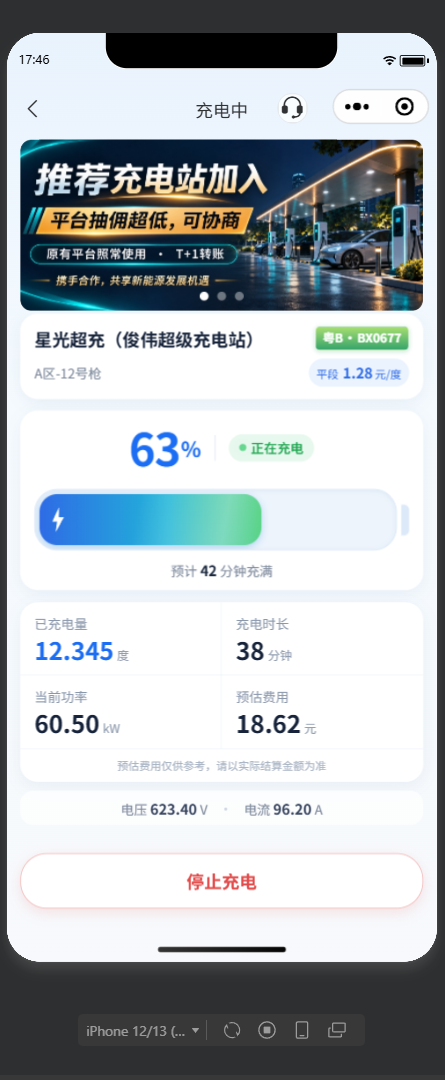
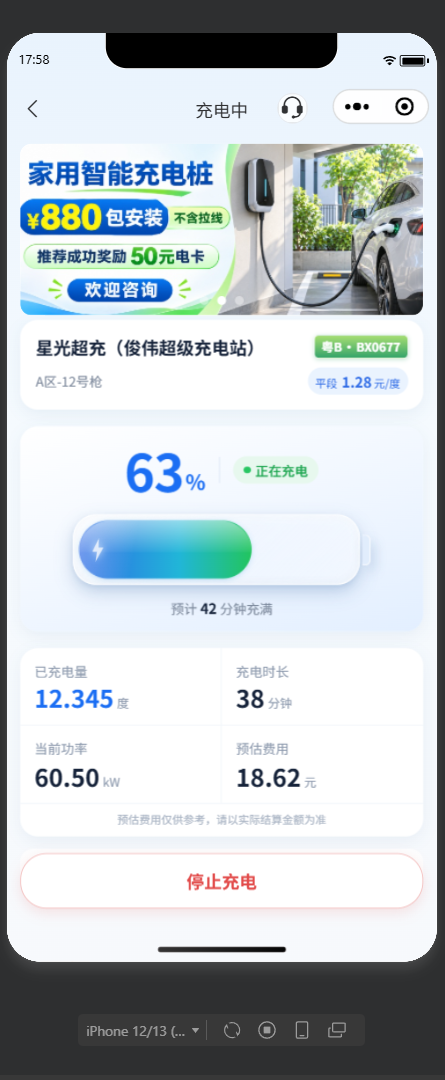
style(charging): 电池加毛玻璃与外阴影、闪电呼吸、百分号底部对齐、宽度收 20%

Changed region(s): [[0.0292, 0.1222, 0.964, 0.3667], [0.0584, 0.3972, 0.964, 0.7639], [0.0876, 0.0306, 0.1169, 0.0611]]

diff --git a/pages/charge/charging.vue b/pages/charge/charging.vue
@@ -31,7 +31,7 @@
 
     <!-- 广告位：与首页同规格（300rpx 高），随页面滚动 -->
     <ad-banner
-        margin-top="12rpx"
+        margin-top="20rpx"
         margin-bottom="4rpx"
         session-from="charging_page"
     />
@@ -73,8 +73,10 @@
     <!-- 电量：电池条随 SOC 增长 -->
     <view class="soc-block">
       <view class="soc-head">
-        <text class="soc-num">{{ displayPercent }}</text>
-        <text class="soc-unit">%</text>
+        <view class="soc-pct">
+          <text class="soc-num">{{ displayPercent }}</text>
+          <text class="soc-unit">%</text>
+        </view>
         <view class="soc-divider"></view>
         <view class="soc-tag">
           <view class="dot-live"></view>
@@ -86,7 +88,9 @@
       <view class="battery-row">
         <view class="battery-body">
           <view class="battery-fill" :style="{ width: batteryFillWidth }">
-            <view class="battery-bolt"></view>
+            <view class="battery-bolt-wrap">
+              <view class="battery-bolt"></view>
+            </view>
           </view>
         </view>
         <view class="battery-cap"></view>
@@ -854,8 +858,8 @@ export default {
 
 /* ===== 站点信息卡 ===== */
 .station-card {
-  margin-top: 0;
-  padding: 22rpx 26rpx;
+  margin-top: 8rpx;
+  padding: 26rpx 28rpx;
   border-radius: 32rpx;
   background-color: #FFFFFF;
   box-shadow: 0 8rpx 28rpx rgba(23, 78, 145, 0.07);
@@ -951,10 +955,10 @@ export default {
 
 /* ===== 电量：电池条 ===== */
 .soc-block {
-  margin-top: 22rpx;
-  padding: 24rpx 26rpx 18rpx;
+  margin-top: 30rpx;
+  padding: 30rpx 28rpx 24rpx;
   border-radius: 32rpx;
-  background-color: #FFFFFF;
+  background: linear-gradient(160deg, #FFFFFF 0%, #E3EFFF 100%);
   box-shadow: 0 8rpx 28rpx rgba(23, 78, 145, 0.07);
   display: flex;
   flex-direction: column;
@@ -970,8 +974,15 @@ export default {
   justify-content: center;
 }
 
+.soc-pct {
+  display: flex;
+  flex-direction: row;
+  /* 百分号与数字底部对齐 */
+  align-items: flex-end;
+}
+
 .soc-num {
-  font-size: 80rpx;
+  font-size: 92rpx;
   font-weight: bold;
   color: #1B6EF3;
   line-height: 1.05;
@@ -979,10 +990,13 @@ export default {
 }
 
 .soc-unit {
-  margin-left: 2rpx;
+  margin-left: 4rpx;
+  /* 数字 line-height 留白补偿，让 % 视觉上贴住数字底部 */
+  margin-bottom: 10rpx;
   font-size: 38rpx;
   font-weight: 600;
   color: #1B6EF3;
+  line-height: 1;
 }
 
 .soc-divider {
@@ -1011,6 +1025,9 @@ export default {
 /* 电池：壳 + 能量填充 + 正极 */
 .battery-row {
   width: 100%;
+  /* 左右各收 10%，电池整体宽度约为卡片的 80% */
+  padding: 0 10%;
+  box-sizing: border-box;
   margin-top: 32rpx;
   display: flex;
   flex-direction: row;
@@ -1020,22 +1037,29 @@ export default {
 .battery-body {
   position: relative;
   flex: 1;
-  height: 108rpx;
-  padding: 9rpx;
+  height: 124rpx;
+  padding: 10rpx;
   box-sizing: border-box;
   border-radius: 42rpx;
-  background-color: #EDF4FC;
-  border: 2rpx solid #DCE9F8;
-  box-shadow: inset 0 2rpx 10rpx rgba(23, 78, 145, 0.07);
+  /* 毛玻璃：半透明白 + 背景模糊 + 高光内阴影 */
+  background-color: rgba(240, 246, 255, 0.46);
+  background-image: linear-gradient(135deg, rgba(255, 255, 255, 0.72) 0%, rgba(255, 255, 255, 0) 42%, rgba(255, 255, 255, 0.28) 100%);
+  backdrop-filter: blur(14px);
+  -webkit-backdrop-filter: blur(14px);
+  border: 2rpx solid rgba(255, 255, 255, 0.96);
+  box-shadow: inset 0 3rpx 16rpx rgba(255, 255, 255, 0.95),
+              inset 0 -3rpx 14rpx rgba(23, 78, 145, 0.10),
+              0 14rpx 32rpx rgba(23, 78, 145, 0.22),
+              0 4rpx 10rpx rgba(23, 78, 145, 0.10);
   overflow: hidden;
 }
 
 .battery-fill {
   position: relative;
   height: 100%;
-  border-radius: 32rpx;
+  border-radius: 999rpx;
   background: linear-gradient(90deg, #2E6BE6 0%, #21B6D8 58%, #22C55E 100%);
-  box-shadow: 0 4rpx 14rpx rgba(33, 140, 216, 0.3);
+  box-shadow: 0 2rpx 10rpx rgba(33, 140, 216, 0.22);
   display: flex;
   flex-direction: row;
   align-items: center;
@@ -1044,6 +1068,18 @@ export default {
   overflow: hidden;
   /* 电量增长：宽度平滑过渡 */
   transition: width 140ms linear;
+}
+
+/* 磨砂高光：上半段乳白渐隐，做出玻璃质感 */
+.battery-fill::before {
+  content: '';
+  position: absolute;
+  top: 0;
+  left: 0;
+  right: 0;
+  height: 54%;
+  background: linear-gradient(180deg, rgba(255, 255, 255, 0.5) 0%, rgba(255, 255, 255, 0.04) 100%);
+  border-radius: 999rpx 999rpx 0 0;
 }
 
 /* 能量流动光泽 */
@@ -1063,12 +1099,29 @@ export default {
 .battery-cap {
   width: 14rpx;
   height: 54rpx;
-  margin-left: 8rpx;
+  margin-left: 6rpx;
+  box-sizing: border-box;
   border-radius: 0 10rpx 10rpx 0;
-  background-color: #DCE9F8;
+  background-color: rgba(226, 237, 252, 0.78);
+  backdrop-filter: blur(14px);
+  -webkit-backdrop-filter: blur(14px);
+  border: 2rpx solid rgba(255, 255, 255, 0.92);
+  border-left: none;
+  box-shadow: 8rpx 12rpx 22rpx rgba(23, 78, 145, 0.18);
 }
 
 /* 闪电图标（CSS 绘制，避免小程序不支持内联 SVG） */
+/* 闪电外层：负责呼吸与发光 */
+.battery-bolt-wrap {
+  display: flex;
+  flex-direction: row;
+  align-items: center;
+  justify-content: center;
+  filter: drop-shadow(0 0 8rpx rgba(255, 255, 255, 0.95));
+  animation: boltBreathe 1.9s ease-in-out infinite;
+}
+
+/* 闪电本体：只负责形状（clip-path 与 transform 分开，避免部分内核下动画失效） */
 .battery-bolt {
   width: 26rpx;
   height: 46rpx;
@@ -1076,12 +1129,24 @@ export default {
   clip-path: polygon(58% 0%, 10% 58%, 44% 58%, 34% 100%, 92% 40%, 56% 40%);
 }
 
+/* 闪电呼吸 */
+@keyframes boltBreathe {
+  0%, 100% {
+    opacity: 1;
+    transform: scale(1);
+  }
+  50% {
+    opacity: 0.72;
+    transform: scale(0.9);
+  }
+}
+
 /* 剩余时间提示 */
 .gauge-remain {
   display: flex;
   flex-direction: row;
   align-items: center;
-  margin-top: 16rpx;
+  margin-top: 22rpx;
 }
 
 .remain-text {
@@ -1117,7 +1182,7 @@ export default {
 
 /* ===== 核心数据四宫格 ===== */
 .core-card {
-  margin-top: 22rpx;
+  margin-top: 30rpx;
   display: flex;
   flex-direction: row;
   flex-wrap: wrap;
@@ -1131,7 +1196,7 @@ export default {
 .core-cell {
   width: 50%;
   box-sizing: border-box;
-  padding: 20rpx 26rpx;
+  padding: 24rpx 26rpx;
   display: flex;
   flex-direction: column;
 }
@@ -1181,12 +1246,12 @@ export default {
 
 /* ===== 次要参数：电压 / 电流 ===== */
 .minor-row {
-  margin-top: 16rpx;
+  margin-top: 22rpx;
   display: flex;
   flex-direction: row;
   align-items: center;
   justify-content: center;
-  padding: 12rpx 0;
+  padding: 16rpx 0;
   border-radius: 24rpx;
   background-color: rgba(255, 255, 255, 0.72);
   animation: cardUp 620ms cubic-bezier(0.22, 0.61, 0.36, 1) 180ms both;

diff --git a/docs/prototype-charging.html b/docs/prototype-charging.html
@@ -74,22 +74,28 @@
 
   /* ===== 电量：电池条（填充随 SOC 增长） ===== */
   .soc-block {
-    margin-top: 12px; background: #fff; border-radius: 18px; padding: 15px 14px 12px;
+    margin-top: 12px; background: linear-gradient(160deg, #FFFFFF 0%, #E3EFFF 100%); border-radius: 18px; padding: 15px 14px 12px;
     box-shadow: 0 2px 14px rgba(27,95,208,.07);
     display: flex; flex-direction: column; align-items: center;
     animation: fadeUp .5s ease .12s both;
   }
   .soc-head { width: 100%; display: flex; align-items: center; justify-content: center; }
+  .soc-pct { display: flex; align-items: flex-end; }
   .soc-num { font-size: 46px; font-weight: 800; color: #1B6EF3; line-height: 1.05; letter-spacing: -1px; font-variant-numeric: tabular-nums; }
-  .soc-unit { font-size: 19px; font-weight: 700; color: #1B6EF3; margin-left: 1px; }
+  .soc-unit { font-size: 19px; font-weight: 700; color: #1B6EF3; margin-left: 2px; margin-bottom: 5px; line-height: 1; }
   .soc-divider { width: 1px; height: 23px; background: #DCE7F5; margin: 0 12px; }
   .soc-tag { display: flex; align-items: center; gap: 4px; padding: 4px 10px; border-radius: 999px; background: #E7F8EE; font-size: 12px; font-weight: 600; color: #16A34A; }
 
-  .battery-row { width: 100%; margin-top: 16px; display: flex; align-items: center; }
+  .battery-row { width: 100%; padding: 0 10%; margin-top: 16px; display: flex; align-items: center; }
   .battery-body {
     position: relative; flex: 1; height: 62px; padding: 5px; border-radius: 21px;
-    background: #EDF4FC; border: 1px solid #DCE9F8;
-    box-shadow: inset 0 1px 5px rgba(23,78,145,.07); overflow: hidden;
+    background-color: rgba(240,246,255,.46);
+    background-image: linear-gradient(135deg, rgba(255,255,255,.72) 0%, rgba(255,255,255,0) 42%, rgba(255,255,255,.28) 100%);
+    backdrop-filter: blur(14px); -webkit-backdrop-filter: blur(14px);
+    border: 1px solid rgba(255,255,255,.96);
+    box-shadow: inset 0 2px 8px rgba(255,255,255,.95), inset 0 -2px 7px rgba(23,78,145,.10),
+                0 7px 16px rgba(23,78,145,.22), 0 2px 5px rgba(23,78,145,.10);
+    overflow: hidden;
   }
   .battery-fill {
     position: relative; height: 100%; width: 0; border-radius: 16px;
@@ -103,8 +109,16 @@
     background: linear-gradient(100deg, rgba(255,255,255,0) 30%, rgba(255,255,255,.42) 50%, rgba(255,255,255,0) 70%);
     background-size: 200% 100%; animation: energyFlow 2.4s linear infinite;
   }
+  .battery-bolt-wrap { display: flex; align-items: center; justify-content: center; filter: drop-shadow(0 0 4px rgba(255,255,255,.95)); animation: boltBreathe 1.9s ease-in-out infinite; }
   .battery-bolt { width: 13px; height: 23px; background: #fff; clip-path: polygon(58% 0%, 10% 58%, 44% 58%, 34% 100%, 92% 40%, 56% 40%); }
-  .battery-cap { width: 7px; height: 27px; margin-left: 4px; border-radius: 0 5px 5px 0; background: #DCE9F8; }
+  @keyframes boltBreathe { 0%,100% { opacity: 1; transform: scale(1); } 50% { opacity: .72; transform: scale(.9); } }
+  .battery-cap {
+    width: 7px; height: 27px; margin-left: 3px; box-sizing: border-box;
+    border-radius: 0 5px 5px 0; background-color: rgba(226,237,252,.78);
+    backdrop-filter: blur(14px); -webkit-backdrop-filter: blur(14px);
+    border: 1px solid rgba(255,255,255,.92); border-left: none;
+    box-shadow: 4px 6px 11px rgba(23,78,145,.18);
+  }
 
   .remain { margin-top: 11px; font-size: 12.5px; color: #7B879A; display: flex; align-items: center; gap: 5px; }
   .remain b { color: #16233A; font-weight: 700; }
@@ -218,15 +232,14 @@
 
         <div class="soc-block">
           <div class="soc-head">
-            <span class="soc-num" id="pctNum">0</span>
-            <span class="soc-unit">%</span>
+            <span class="soc-pct"><span class="soc-num" id="pctNum">0</span><span class="soc-unit">%</span></span>
             <span class="soc-divider"></span>
             <span class="soc-tag"><span class="dot-live"></span>正在充电</span>
           </div>
 
           <div class="battery-row">
             <div class="battery-body">
-              <div class="battery-fill" id="batteryFill"><div class="battery-bolt"></div></div>
+              <div class="battery-fill" id="batteryFill"><div class="battery-bolt-wrap"><div class="battery-bolt"></div></div></div>
             </div>
             <div class="battery-cap"></div>
           </div>
